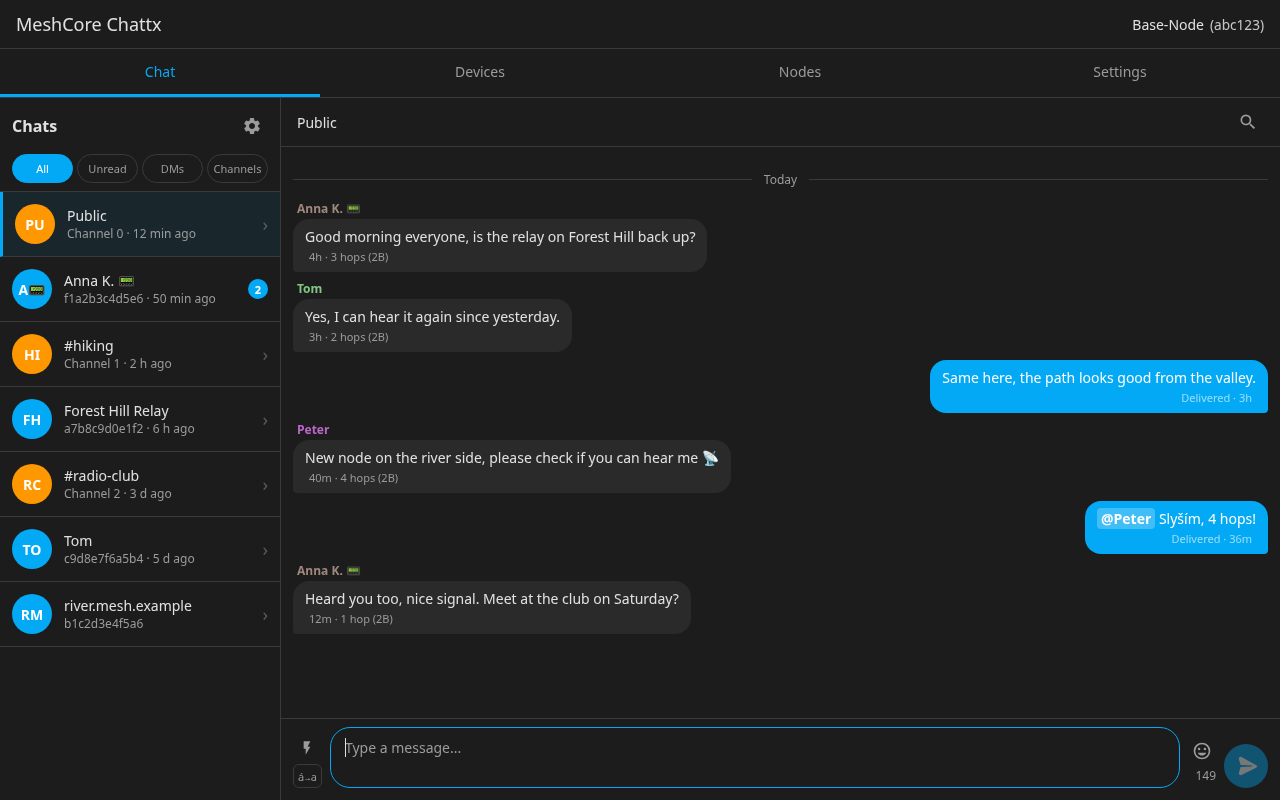
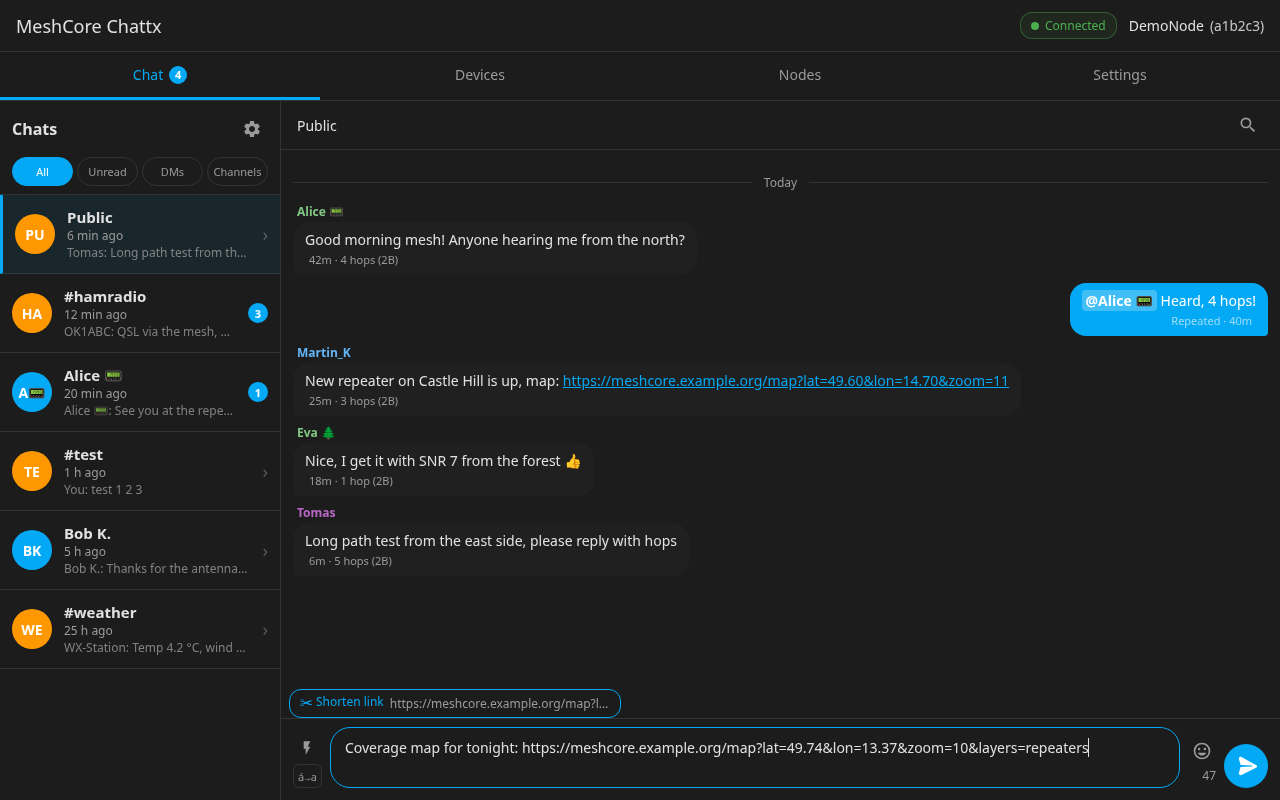
Update screenshots: chat list previews, links, link shortening and the route map
New demo screenshots taken from release 0.8.0 with made-up data: the desktop chat with the newest message per conversation, clickable links and the shorten-link bar; the route map in the message dialog on desktop and phone; the phone conversation list with previews.

diff --git a/README.md b/README.md
@@ -103,8 +103,16 @@ These use demo data, and the names and values are made up.
 <td width="50%"><a href="https://raw.githubusercontent.com/michalsiman/meshcore-ha-chattx/main/assets/screenshots/chattx-composer.png"><img src="https://raw.githubusercontent.com/michalsiman/meshcore-ha-chattx/main/assets/screenshots/chattx-composer.png" alt="Emoji picker, bytes-left counter and diacritics switch"></a></td>
 </tr>
 <tr>
-<td><b>Chat</b> — initials and message ages in the list, hop count and path size on messages.</td>
+<td><b>Chat</b> — the newest message under each conversation, unread total on the Chat tab, clickable links, hop count and path size on messages, and "Shorten link" above the message field.</td>
 <td><b>Writing</b> — quick messages and the diacritics switch on the left, emoji and bytes left on the right.</td>
+</tr>
+<tr>
+<td><a href="https://raw.githubusercontent.com/michalsiman/meshcore-ha-chattx/main/assets/screenshots/chattx-route-map.png"><img src="https://raw.githubusercontent.com/michalsiman/meshcore-ha-chattx/main/assets/screenshots/chattx-route-map.png" alt="Route of a message on a map"></a></td>
+<td align="center"><a href="https://raw.githubusercontent.com/michalsiman/meshcore-ha-chattx/main/assets/screenshots/chattx-mobile-route-map.png"><img src="https://raw.githubusercontent.com/michalsiman/meshcore-ha-chattx/main/assets/screenshots/chattx-mobile-route-map.png" alt="Route map on a phone" width="300"></a></td>
+</tr>
+<tr>
+<td><b>Route on a map</b> (experimental) — the repeaters a message went through, found among your contacts by their key prefix and drawn over OpenStreetMap, with the list below.</td>
+<td align="center"><b>Phone</b> — the same map; the dialog scrolls, and the back gesture hides the map, then closes the dialog.</td>
 </tr>
 <tr>
 <td><a href="https://raw.githubusercontent.com/michalsiman/meshcore-ha-chattx/main/assets/screenshots/chattx-message-popup.png"><img src="https://raw.githubusercontent.com/michalsiman/meshcore-ha-chattx/main/assets/screenshots/chattx-message-popup.png" alt="Message dialog with the heard reply"></a></td>
@@ -138,7 +146,7 @@ These use demo data, and the names and values are made up.
 <td width="50%" align="center"><a href="https://raw.githubusercontent.com/michalsiman/meshcore-ha-chattx/main/assets/screenshots/chattx-mobile-chat.png"><img src="https://raw.githubusercontent.com/michalsiman/meshcore-ha-chattx/main/assets/screenshots/chattx-mobile-chat.png" alt="Chat on a phone" width="300"></a></td>
 </tr>
 <tr>
-<td align="center"><b>Phone</b> — conversation list.</td>
+<td align="center"><b>Phone</b> — conversation list with the newest message of each conversation.</td>
 <td align="center"><b>Phone</b> — chat with the compact message bar.</td>
 </tr>
 </table>
